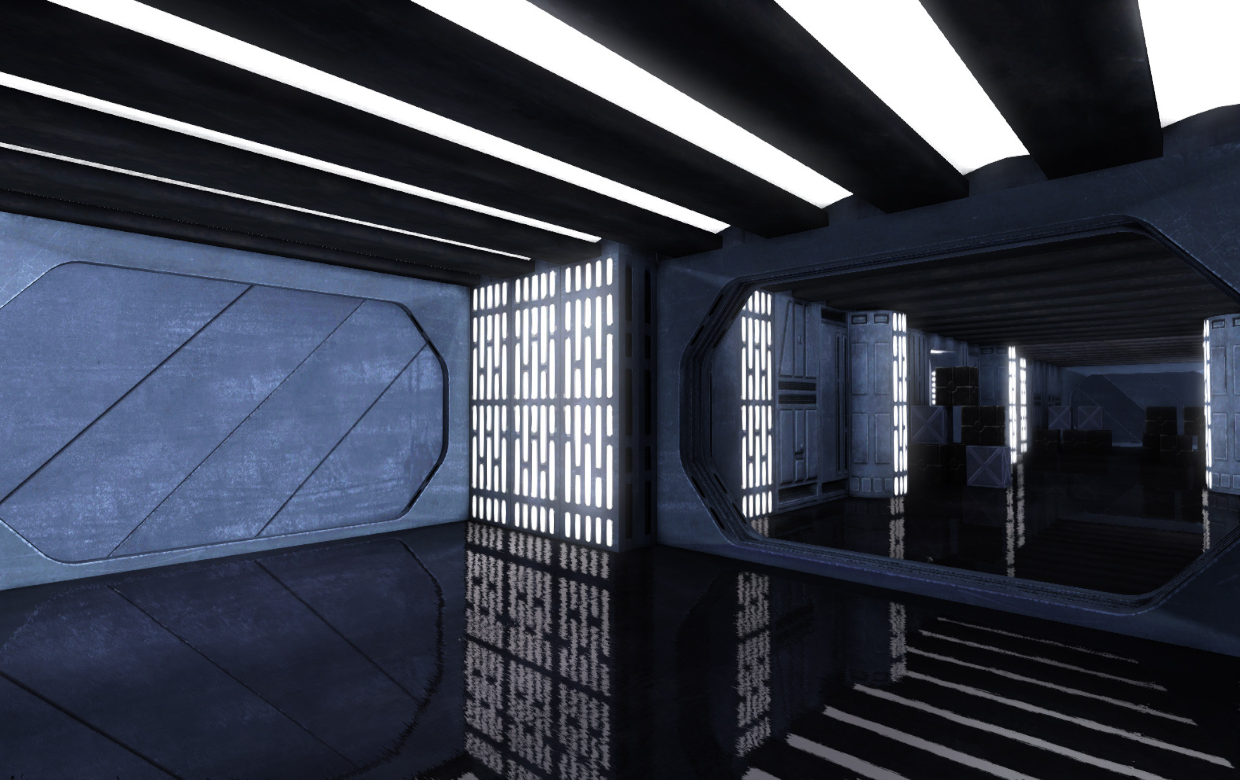
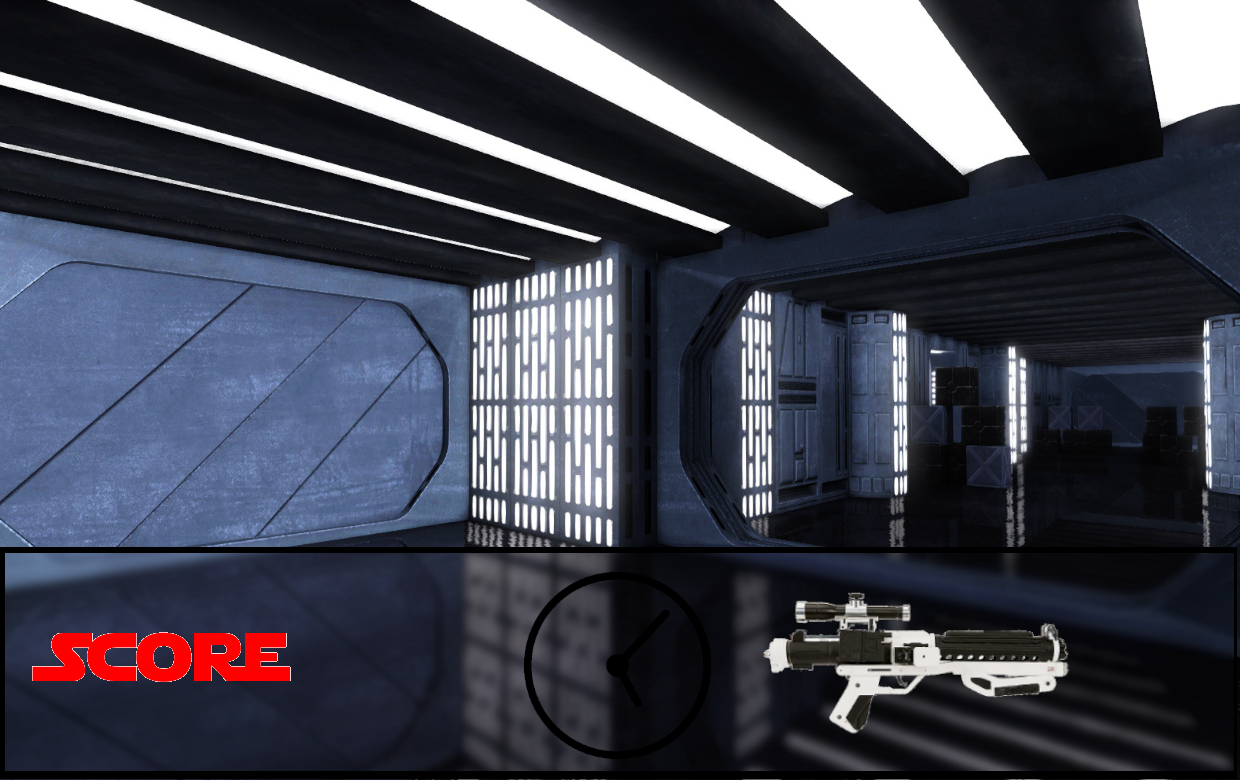
Text added to grid. Now there is bullets, score and time

diff --git a/StrooperShooter/src/org/academiadecodigo/stormrooters/stroopershooter/Game.java b/StrooperShooter/src/org/academiadecodigo/stormrooters/stroopershooter/Game.java
@@ -1,6 +1,7 @@
 package org.academiadecodigo.stormrooters.stroopershooter;
 
-import org.academiadecodigo.simplegraphics.pictures.Picture;
+import org.academiadecodigo.simplegraphics.graphics.Color;
+import org.academiadecodigo.simplegraphics.graphics.Text;
 import org.academiadecodigo.stormrooters.stroopershooter.Field.Grid;
 import org.academiadecodigo.stormrooters.stroopershooter.GameObjects.Enemy;
 import org.academiadecodigo.stormrooters.stroopershooter.GameObjects.Friend;
@@ -16,6 +17,9 @@ public class Game {
     private Grid grid;
     private Weapon sniper;
     private GameObjects[] objects;
+    private Text scoreDisplay;
+    private Text clockDisplay;
+    private Text bulletsDisplay;
     private boolean gameInit;
     private boolean gameOn = true;
     private int gameRound;
@@ -59,6 +63,9 @@ public class Game {
             }
         }
         player.drawAim();
+        scoreRepresentation(player.getScore());
+        bulletsRepresentation(player.getBulletNumber());
+
         start();
     }
 
@@ -67,28 +74,38 @@ public class Game {
         timer = new CountDownTimer(30);
         timer.startCountTimer();
 
+        clockRepresentation(timer.getSeconds());
+
         while (gameOn) {
+
+            updateScore(player.getScore());
+            updateClock(timer.getSeconds());
+            updateBullets(player.getBulletNumber());
+
             Thread.sleep(500);
 
             gameRound();
 
             moveTarget();
 
+            drawText();
+
             checkHits();
 
         }
     }
 
-    public void moveTarget() {
+    private void moveTarget() {
         for (GameObjects c : objects) {
             c.move();
         }
     }
 
-    public void gameRound() throws InterruptedException {
+    private void gameRound() throws InterruptedException {
         if (gameRound < 5 && timer.getSeconds() == 1) {
             gameRound++;
             System.out.println("round: " + gameRound);
+            player.deleteAim();
             init();
         }
         if (gameRound == 5 || player.getScore() < 0) {
@@ -99,7 +116,7 @@ public class Game {
         }
     }
 
-    public void checkHits() {
+    private void checkHits() {
         for (GameObjects object : objects) {
 
             if (player.getX() >= object.getX() && player.getX() <= object.getX() + object.getWidth() &&
@@ -119,5 +136,41 @@ public class Game {
                 player.reset();
             }
         }
+    }
+
+    private void scoreRepresentation(Integer score) {
+        scoreDisplay = new Text(400, 700, score.toString());
+        scoreDisplay.setColor(Color.WHITE);
+        scoreDisplay.grow(30, 50);
+    }
+
+    private void clockRepresentation(Integer clockScreen) {
+        clockDisplay = new Text(600, 700, clockScreen.toString());
+        clockDisplay.setColor(Color.WHITE);
+        clockDisplay.grow(100, 70);
+    }
+
+    private void bulletsRepresentation(Integer bullets) {
+        bulletsDisplay = new Text(1100, 700, bullets.toString());
+        bulletsDisplay.setColor(Color.WHITE);
+        bulletsDisplay.grow(30, 50);
+    }
+
+    private void drawText(){
+        scoreDisplay.draw();
+        clockDisplay.draw();
+        bulletsDisplay.draw();
+    }
+
+    private void updateScore(Integer newScore){
+        scoreDisplay.setText(newScore.toString());
+    }
+
+    private void updateClock(Integer clockScreen) {
+        clockDisplay.setText(clockScreen.toString());
+    }
+
+    private void updateBullets(Integer bullets) {
+        bulletsDisplay.setText(bullets.toString());
     }
 }

diff --git a/StrooperShooter/src/org/academiadecodigo/stormrooters/stroopershooter/Player.java b/StrooperShooter/src/org/academiadecodigo/stormrooters/stroopershooter/Player.java
@@ -9,6 +9,7 @@ import org.academiadecodigo.simplegraphics.mouse.MouseEvent;
 import org.academiadecodigo.simplegraphics.mouse.MouseEventType;
 import org.academiadecodigo.simplegraphics.mouse.MouseHandler;
 import org.academiadecodigo.simplegraphics.pictures.Picture;
+import org.academiadecodigo.stormrooters.stroopershooter.Field.Grid;
 import org.academiadecodigo.stormrooters.stroopershooter.GameObjects.GameObjects;
 
 public class Player {
@@ -21,11 +22,12 @@ public class Player {
     private WeaponControl weaponControl;
     private ReloadControl reloadControl;
 
+
     public Player(Weapon weapon) {
         this.sniper = weapon;
         this.weaponControl = new WeaponControl();
         this.reloadControl = new ReloadControl();
-        this.aim = new Picture(0, 0, "finalCrosshair.png");
+        this.aim = new Picture(2, 2, "finalCrosshair.png");
     }
 
     public void shootWeapon() {
@@ -62,13 +64,16 @@ public class Player {
     }
 
     public void setScore(int points) {
-
         this.score += points;
         System.out.println("score: " + score);
     }
 
     public int getScore() {
         return score;
+    }
+
+    public void deleteAim() {
+        aim.delete();
     }
 
     public class WeaponControl implements MouseHandler {
@@ -98,7 +103,14 @@ public class Player {
             int x = aim.getX() + 44;
             int y = aim.getY() + 90;
 
-            aim.translate(e.getX() - x, e.getY() - y);
+            if (x > 0 && x < 1239 && y > 0 && y < 770) {
+                aim.translate(e.getX() - x, e.getY() - y);
+                System.out.println(x + " " + y);
+            } else {
+                x = -50;
+                y = -50;
+                aim.translate(x, y);
+            }
         }
     }
 
@@ -125,7 +137,6 @@ public class Player {
 
         @Override
         public void keyReleased(KeyboardEvent e) {
-
         }
     }
 }

diff --git a/StrooperShooter/src/org/academiadecodigo/stormrooters/stroopershooter/Timer/CountDownTimer.java b/StrooperShooter/src/org/academiadecodigo/stormrooters/stroopershooter/Timer/CountDownTimer.java
@@ -1,15 +1,11 @@
 package org.academiadecodigo.stormrooters.stroopershooter.Timer;
 
-import org.academiadecodigo.stormrooters.stroopershooter.Game;
-
 import java.util.Timer;
 import java.util.TimerTask;
 
 public class CountDownTimer {
 
     private int seconds;
-    private int objectsRound;
-
 
     public CountDownTimer(int seconds) {
         this.seconds = seconds;
@@ -21,16 +17,14 @@ public class CountDownTimer {
         @Override
         public void run() {
             if (seconds > 0) {
-                System.out.println(seconds);
                 --seconds;
             } else {
-                System.out.println("Game Over");
                 cancel();
             }
         }
     };
 
-    TimerTask timerObject = new TimerTask() {
+    /*TimerTask timerObject = new TimerTask() {
         @Override
         public void run() {
             if (seconds >= 0) {
@@ -48,14 +42,10 @@ public class CountDownTimer {
                 cancel();
             }
         }
-    };
+    };*/
 
     public void startCountTimer() {
         timer.scheduleAtFixedRate(task, 1000, 1000);
-    }
-
-    public void countdownObject() {
-        timer.scheduleAtFixedRate(timerObject, 1000, 1000);
     }
 
     public int getSeconds() {
